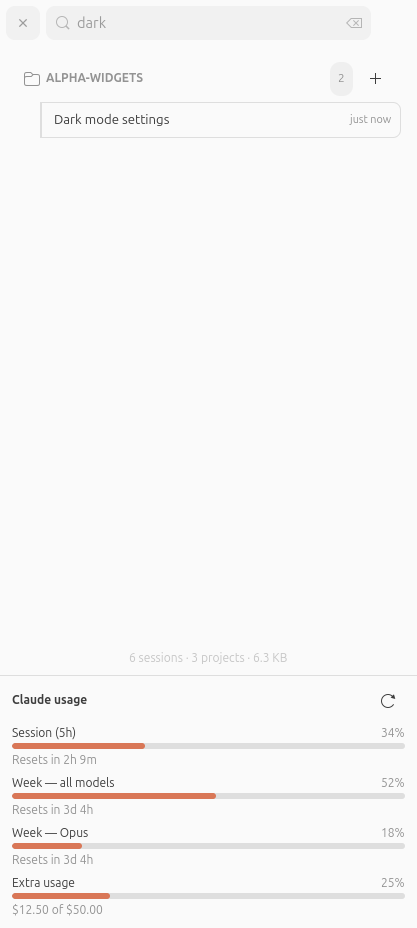
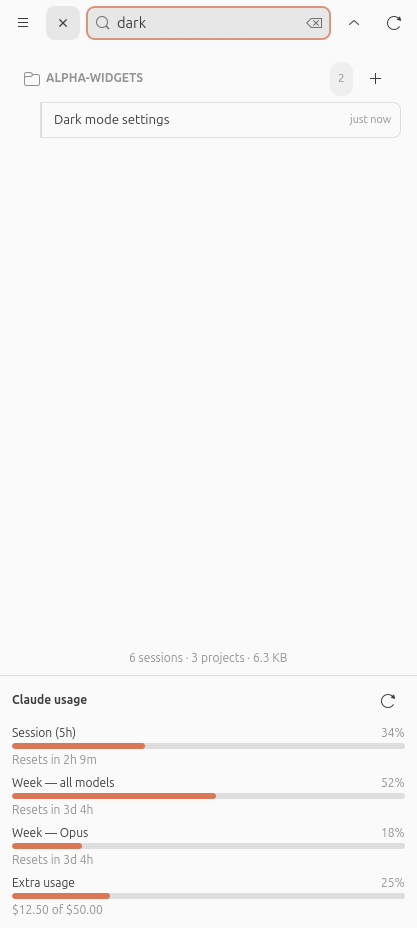
fix(sidebar): keep the header buttons during search, move the menu left
The search entry stops at the buttons instead of hiding them: everything in
the header stays reachable mid-search. The menu button joins search on the
left end so the header carries two buttons on each side of the title.

Claude-Session: https://claude.ai/code/session_01YV3NR9HgiuSYfeqm1cQBc6

diff --git a/collins/sidebar.py b/collins/sidebar.py
@@ -531,16 +531,11 @@ class SessionSidebar(Gtk.Box):
 
         # Search is folded away behind a button: it costs the list a whole row
         # when it sits there permanently, and it is reached a handful of times
-        # a session. Opening it hands the entry the header (see
-        # _set_search_active).
+        # a session. Opening it hands the entry everything between the header's
+        # buttons (see _set_search_active).
         self.search_entry = Gtk.SearchEntry(placeholder_text=_("Search sessions…"), hexpand=True)
         self.search_entry.connect("search-changed", lambda *_: self._invalidate())
         self.search_entry.connect("stop-search", lambda *_: self.search_btn.set_active(False))
-
-        self.search_btn = Gtk.ToggleButton(icon_name="system-search-symbolic")
-        self.search_btn.set_tooltip_text(_("Search sessions"))
-        self.search_btn.connect("toggled", lambda b: self._set_search_active(b.get_active()))
-        header.pack_start(self.search_btn)
 
         menu = Gio.Menu()
         menu.append(_("Select multiple sessions"), "win.select-sessions")
@@ -550,8 +545,15 @@ class SessionSidebar(Gtk.Box):
         menu.append(_("MCP servers"), "win.mcp-servers")
         menu.append(_("Preferences"), "win.preferences")
         menu.append(_("About Collins"), "win.about")
+        # Menu and search share the left end, so the header's weight is even:
+        # two buttons on each side of the title.
         self._menu_btn = Gtk.MenuButton(icon_name="open-menu-symbolic", menu_model=menu)
-        header.pack_end(self._menu_btn)
+        header.pack_start(self._menu_btn)
+
+        self.search_btn = Gtk.ToggleButton(icon_name="system-search-symbolic")
+        self.search_btn.set_tooltip_text(_("Search sessions"))
+        self.search_btn.connect("toggled", lambda b: self._set_search_active(b.get_active()))
+        header.pack_start(self.search_btn)
 
         self._refresh_btn = Gtk.Button(icon_name="view-refresh-symbolic")
         self._refresh_btn.set_tooltip_text(_("Refresh session list"))
@@ -797,18 +799,14 @@ class SessionSidebar(Gtk.Box):
     def _set_search_active(self, active: bool) -> None:
         """Swap the sidebar's title for the search entry, and back.
 
-        The entry takes the header over rather than sharing it: the sidebar is
-        narrow, and a search field squeezed between the other buttons would
-        show only a few characters of the query. The other buttons step aside
-        while searching — the X that replaces the search button brings them
-        back.
+        The entry takes the title's place, so it stretches across everything
+        between the header's buttons — those all stay put and reachable, and
+        the X the search button turns into folds the entry away again.
         """
         self.search_btn.set_icon_name(
             "window-close-symbolic" if active else "system-search-symbolic"
         )
         self.search_btn.set_tooltip_text(_("Close search") if active else _("Search sessions"))
-        for button in (self._collapse_btn, self._refresh_btn, self._menu_btn):
-            button.set_visible(not active)
         if active:
             self._header.set_title_widget(self.search_entry)
             self.search_entry.grab_focus()

diff --git a/README.md b/README.md
@@ -23,7 +23,7 @@ Collins is a fork of [agent-session-manager](https://github.com/r4nd3l/agent-ses
 
 Features:
 
-- **Sidebar** lists every session found on disk (for Claude Code, under `~/.claude/projects/`), grouped by project (collapsible headers, with a collapse-all/expand-all toggle in the sidebar header), with a **Favorites** section pinned on top — star a session to move it there. **Drag a project header** to rearrange projects — the order and each project's expanded state persist across restarts. The **search button** (or `Ctrl+Shift+F`) hands the sidebar header over to a search box that filters by name, project, preview, or session id, and the list **updates live** as sessions are created or written to.
+- **Sidebar** lists every session found on disk (for Claude Code, under `~/.claude/projects/`), grouped by project (collapsible headers, with a collapse-all/expand-all toggle in the sidebar header), with a **Favorites** section pinned on top — star a session to move it there. **Drag a project header** to rearrange projects — the order and each project's expanded state persist across restarts. The **search button** (or `Ctrl+Shift+F`) opens a search box across the sidebar header that filters by name, project, preview, or session id, and the list **updates live** as sessions are created or written to.
 - Sessions can be given **custom names** (right-click → Rename…, or rename the session's tab), and unnamed sessions get an **auto-generated title**: pre-existing sessions are titled locally on launch (first 10 words of the initial prompt), while sessions created during an app run have their first prompt summarized to ≤5 words by a headless `claude -p --model haiku` run — the same CLI and login the whole app is based on, no extra credentials needed. Titles are persisted so each is generated only once; right-click → **Regenerate name** re-runs the model for one session, and a Preferences toggle turns auto-titling off (a manual rename always wins). Names, favorites, and archived sessions persist in `~/.config/collins/state.json` — your agents' own session files are never modified.
 - **Clicking a session** opens a tab in the main area; each tab is an embedded **VTE terminal** running your `$SHELL` with the agent's resume command (`claude --resume <session-id>` for Claude Code) typed into it, in the directory the session last worked in (worktree-aware). If the session is still running detached, Collins **re-attaches** to the live process (`claude attach`) instead of resuming a copy. When the agent exits you drop to a shell prompt; the tab closes when the shell exits. Closing a tab asks the agent to exit cleanly (Claude Code's `/exit`) in the background first — or, for agents that support it, the close dialog offers to **background the session** instead (Claude Code's `/bg`), leaving it running detached to re-attach to later. On the next launch the app **reopens the session you had focused** when you closed it, and the window comes back at its last size.
 - **In-terminal search** with a find bar (`Ctrl+Shift+G`) over the tab's scrollback.

diff --git a/docs/guide/features.md b/docs/guide/features.md
@@ -28,7 +28,7 @@ fork. Last modified: 2026-07-30. Full change history: git log for this file.
   project; right-click a header for *New session here* and *Archive project*.
   Projects whose sessions are all archived or favorited still show their header,
   so the folder stays reachable.
-- A **search button** that hands the whole sidebar header over to a search box
+- A **search button** that opens a search box across the sidebar header,
   filtering by name, project, message preview, or session ID, plus a footer
   showing session, project, transcript-size, and open-tab counts.
 - **Live updates** — sessions appear and reorder as they're created or written
